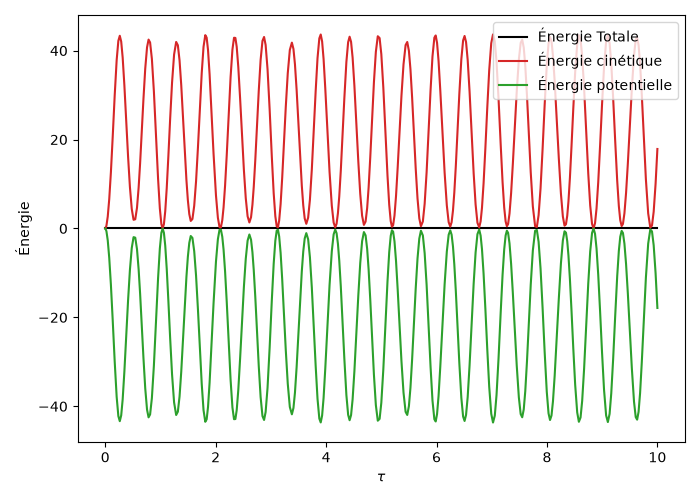
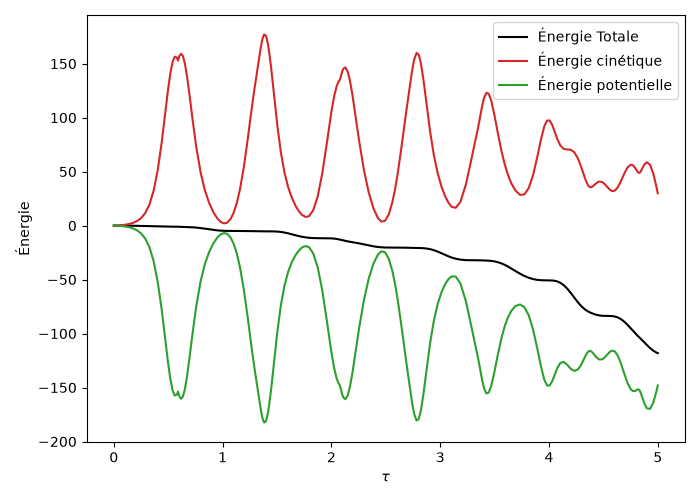
Maj 3 -> Fsolve

diff --git a/Python Projet Modelling and System Analysis.py b/Python Projet Modelling and System Analysis.py
@@ -4,6 +4,7 @@
 import numpy as np
 from scipy.integrate import solve_ivp
 import matplotlib.pyplot as plt
+from scipy.optimize import fsolve
 
 # Précision
 
@@ -11,11 +12,11 @@ précision_relative = 1e-6
 précision_absolue = 1e-8
 
 # Durée de la simulation
-duréeSimulation = 10
+duréeSimulation = 30
 
 # Conditions initiales 
-theta = 1
-psi = 0.8
+theta = -2.915532455310049
+psi = 0.28781892806438886
 vitesseDeRotation = 0
 vitesseDeVariabilitéDuRapportDeLongueur = 0
 
@@ -24,7 +25,7 @@ gamma = 1
 mu = 1
 xi = 0.5
 lambdA = 0.5
-nu = 0
+nu = 1
 sigma = 0.5
 alpha = 0.5
 delta = 1
@@ -99,6 +100,31 @@ Ep_rel = Ep - Ep[0]
 # Energie totale
 
 E_totale = Ek + Ep_rel
+
+
+#---------------------- Racines -------------------------------------------------------
+
+
+def equations(variables) : 
+
+    theta_0, psi_0 = variables 
+
+    eq1 = 4*pi**2 *(delta * eta / sigma) * fonction_epsilon(sigma, psi_0, xi, alpha, theta_0)*(psi_0 * np.cos(theta_0) - alpha * np.sin(psi_0)) - 4 * pi**2 * np.sin(theta_0)
+    eq2 = 1 / (mu**2) * 4 * pi**2 * (1 - psi_0 - lambdA) - 1 / (gamma**2) * fonction_epsilon(sigma, psi_0, xi, alpha, theta_0) * 4 * pi**2 * (psi_0 - xi * np.sin(theta_0))
+
+    return [eq1, eq2]
+
+
+valeurs_initial = [-2.9155324553100486, 0.28781892806438886]         # theta* et Psi* 
+
+solution = fsolve(equations, valeurs_initial)
+
+print(f"Psi*  = {solution[1]} et theta* = {solution[0]}")
+
+
+
+# -------------------- Plot -----------------------------------------------------------
+
 
 
 # Graphique : theta et psi en fonction de thau

diff --git a/Projet Modelling animation Manim.py b/Projet Modelling animation Manim.py
@@ -17,11 +17,11 @@ précision_relative = 1e-6
 précision_absolue = 1e-8
 
 # Durée de la simulation
-duréeSimulation = 50
+duréeSimulation = 5
 
 # Conditions initiales 
-theta = -0.5
-psi = -1
+theta = -2.915532455310049
+psi = 0.28781892806438886
 vitesseDeRotation = 0
 vitesseDeVariabilitéDuRapportDeLongueur = 0
 
